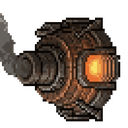
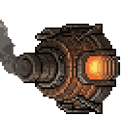
Спрайты: contain-fit вместо растяжения (убрать сплющивание) + полный цикл silo
Конвертация спрайтов растягивала кадр под целевой квадрат по ширине и
высоте раздельно (resize без сохранения aspect ratio). После 90°-поворота
под конвенцию "смотрит вверх" соотношение сторон исходника переставало
совпадать с квадратной целью (особенно у ракеты: 330×414 → после поворота
414×330 → в квадрат 192×192 — заметное сплющивание). Пересобрал все
кадры (idle+work, все станки) через contain-fit: вписываем с сохранением
пропорций, центрируем, паддинг прозрачным — без искажений.

silo: LAUNCH_MS увеличен с 1500 до 2700мс — 16 кадров при
animationSpeed 0.1 (~6 кадров/с) успевают доиграть полный цикл, а не
обрываются на середине.

Changed region(s): [[0.0, 0.0938, 0.9688, 0.9688], [0.0, 0.4688, 0.0312, 0.5312], [0.5625, 0.5, 0.5938, 0.5312]]

diff --git a/web/src/core/nodes/silo.ts b/web/src/core/nodes/silo.ts
@@ -11,7 +11,9 @@ export const siloSchema: Field[] = [];
 // Визуальная пауза «запуска» — без неё handler резолвится за один тик, working
 // сменяется на ok быстрее одного кадра рендера, и work-анимация (silo_work.png)
 // физически не успевает отрисоваться (machines.ts переключает спрайт по status).
-const LAUNCH_MS = 1500;
+// 16 кадров × animationSpeed 0.1 (machines.ts) ≈ 6 кадров/с при 60fps → полный
+// цикл ~2.7с — держим working хотя бы на этот срок, иначе анимация обрежется.
+const LAUNCH_MS = 2700;
 
 /**
  * Handler для silo: держит working LAUNCH_MS (даёт отыграть анимацию), затем
